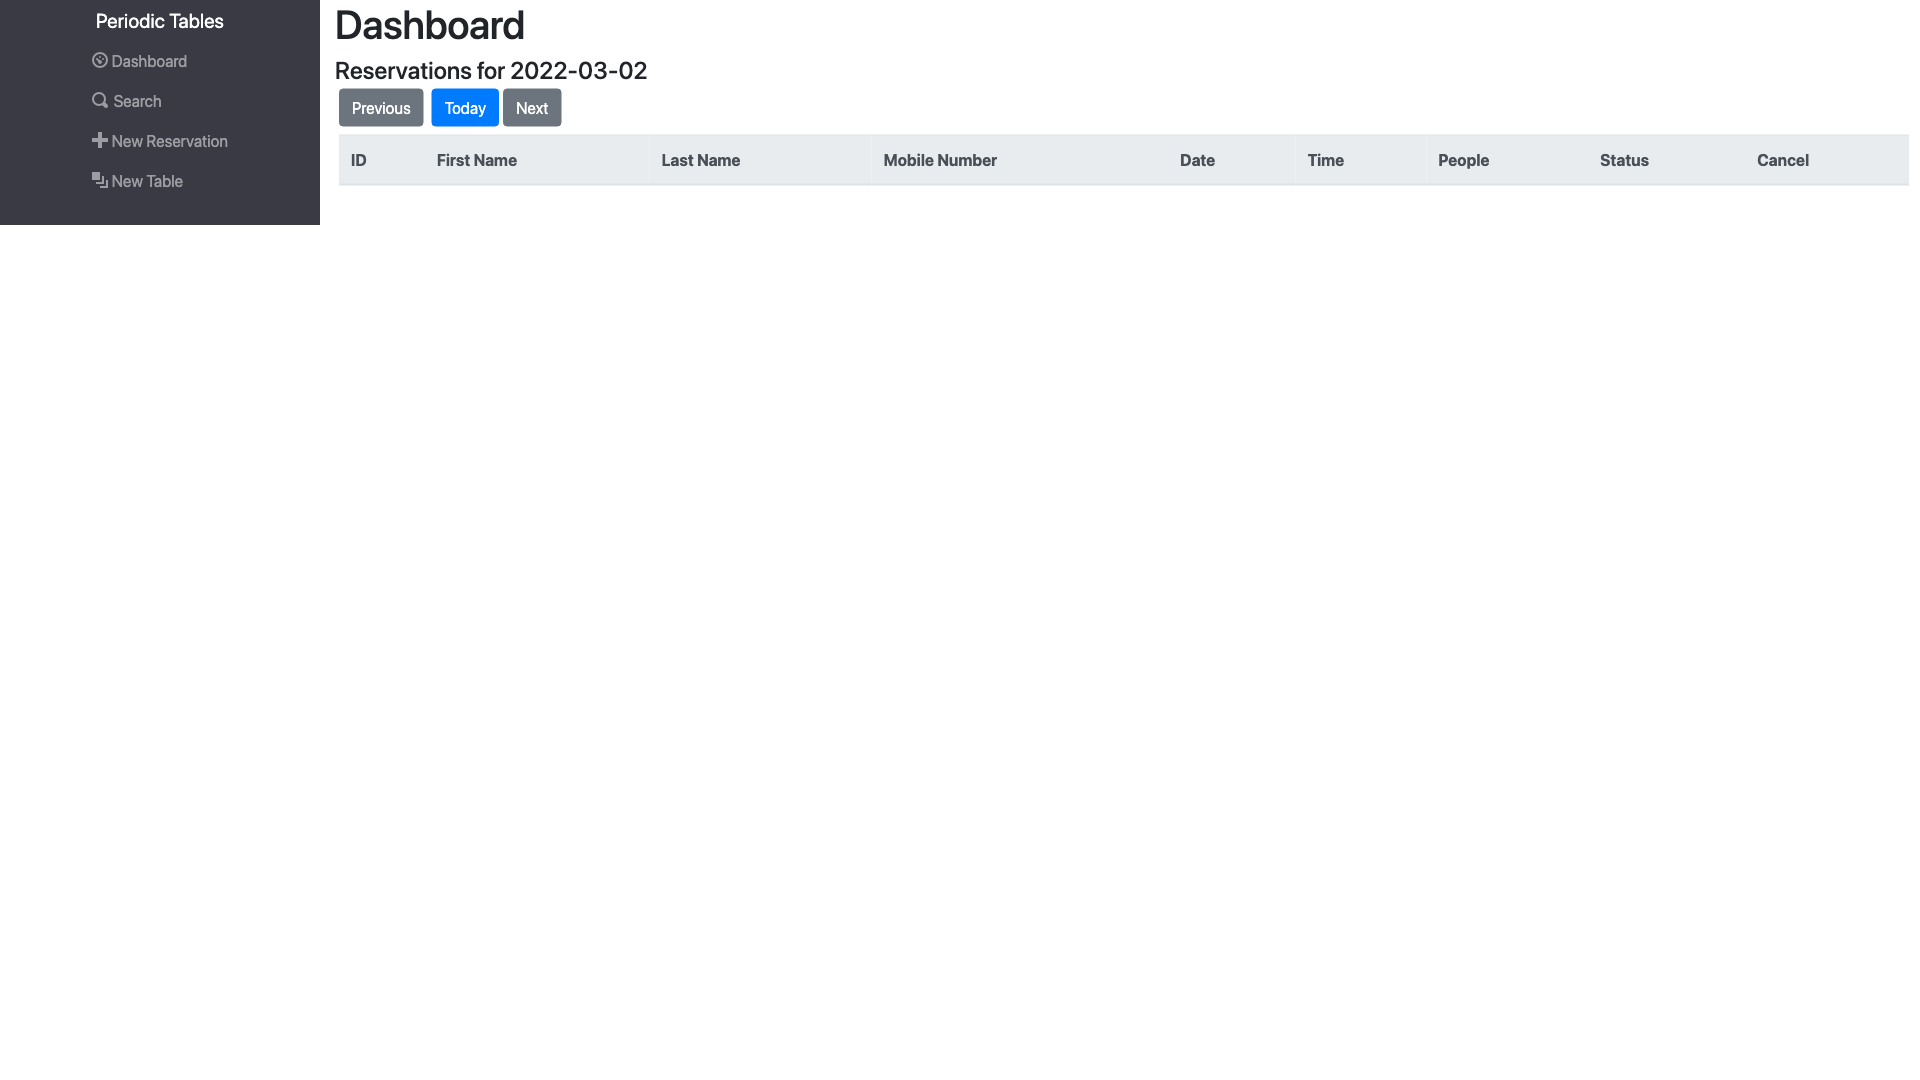
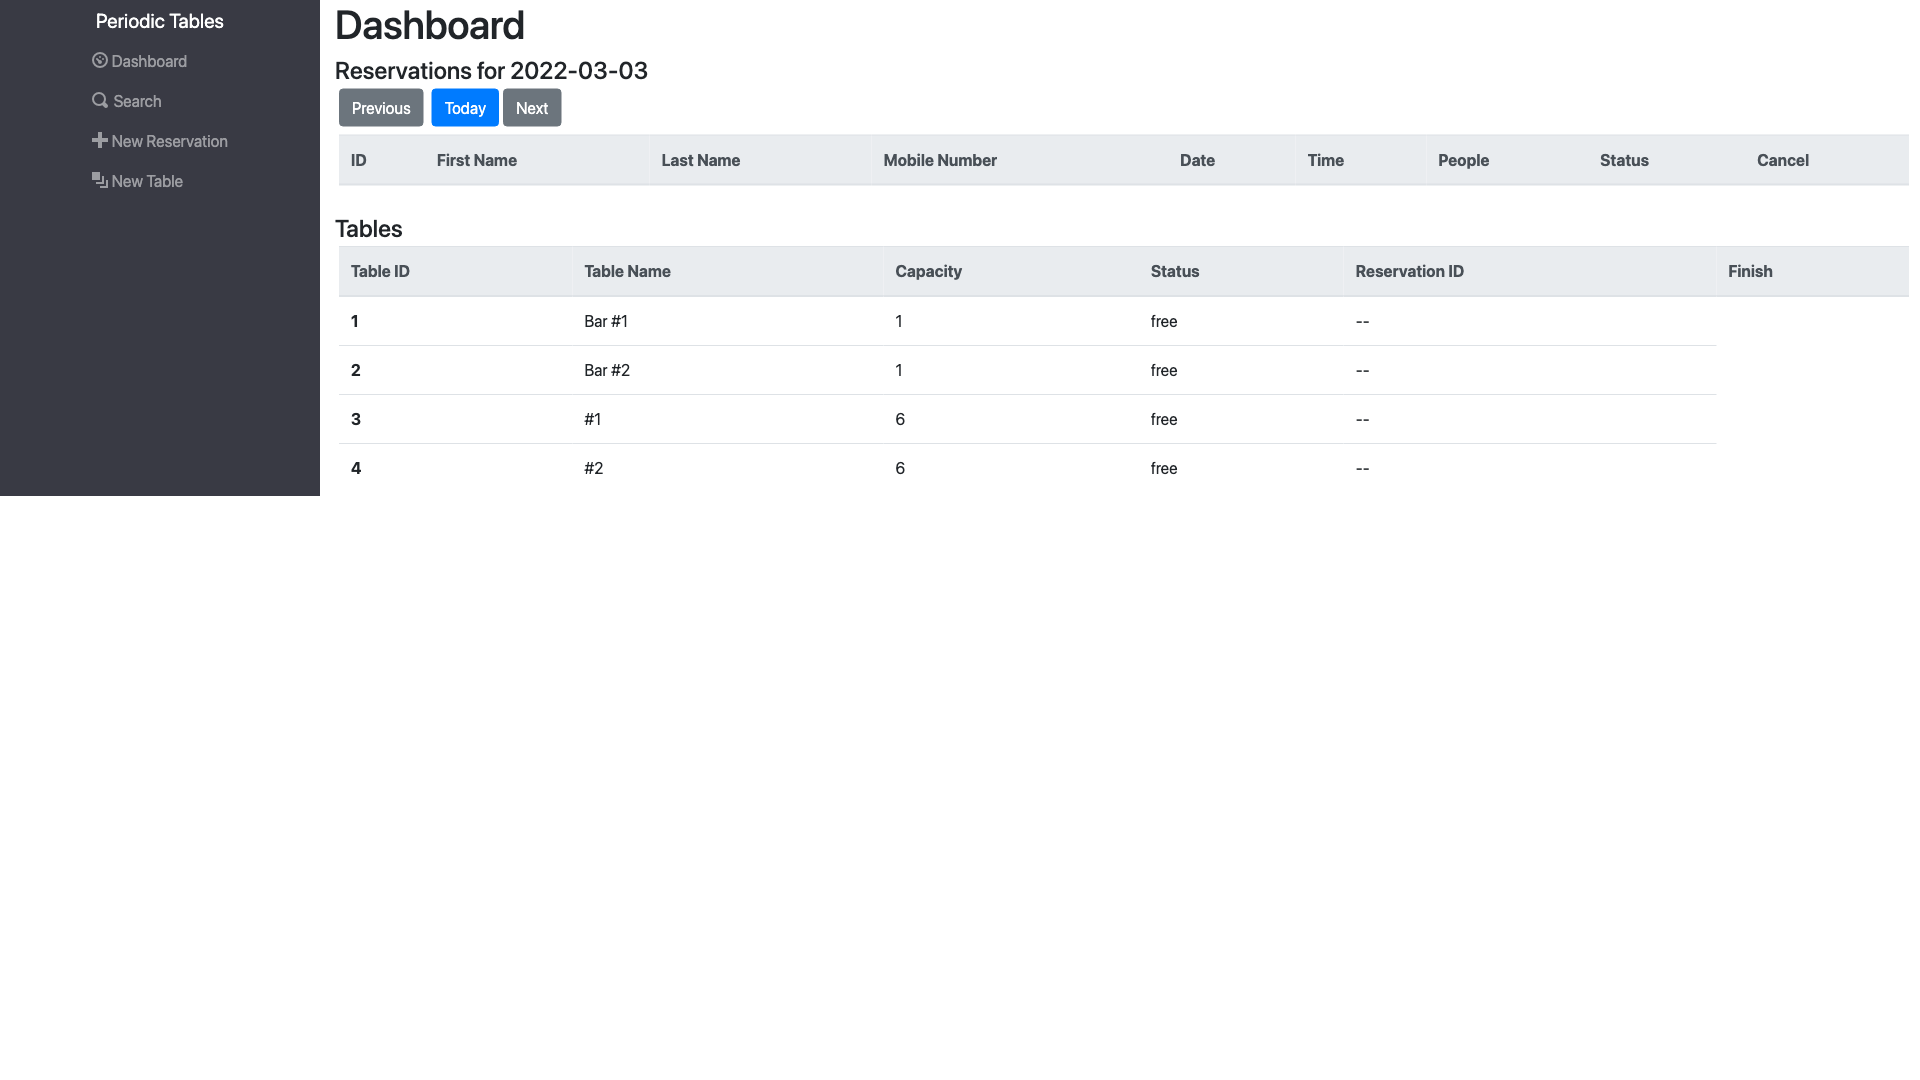
added SeatReservation functionality
added SeatReservation functionality, added API Requests to api.js, updated Routes.js to include editing and seating a reservation

diff --git a/src/reservations/SeatReservation.js b/src/reservations/SeatReservation.js
@@ -1,0 +1,142 @@
+import React, { useState, useEffect } from "react";
+import { useHistory, useParams } from "react-router";
+import { listReservations, seatTable } from "../utils/api";
+import ErrorAlert from "../layout/ErrorAlert";
+
+/**
+ * Page where user will choose a table to seat a reservation
+ */
+export default function SeatReservation({ tables, loadDashboard }) {
+  const history = useHistory();
+
+  const { reservation_id } = useParams();
+
+  const [table_id, setTableId] = useState(0);
+  const [reservations, setReservations] = useState([]);
+  const [reservationsError, setReservationsError] = useState(null);
+  const [errors, setErrors] = useState([]);
+  const [apiError, setApiError] = useState(null);
+
+  /**
+   * On Application Mount make an API call to get all reservations
+   */
+  useEffect(() => {
+    const abortController = new AbortController();
+
+    setReservationsError(null);
+
+    listReservations(null, abortController.signal)
+      .then(setReservations)
+      .catch(setReservationsError);
+
+    return () => abortController.abort();
+  }, []);
+
+  /**
+   * update the table_id upon user input
+   */
+  function handleInputChange({ target }) {
+    setTableId(target.value);
+  }
+
+  /** upon user submit validateSeat() and then makes API call seatTable()
+   * 
+   * @param {*} event 
+   * @returns 
+   */
+  function handleSubmit(event) {
+    event.preventDefault();
+    const abortController = new AbortController();
+
+    if (validateSeat()) {
+        seatTable(reservation_id, table_id, abortController.signal)
+            .then(loadDashboard)
+            .then(() => history.push(`/dashboard`))
+            .catch(setApiError);
+    }
+
+    return () => abortController.abort();
+  }
+
+  /**
+   * validates that a reservation can be seated at a specific table
+   */
+  function validateSeat() {
+    const foundErrors = [];
+
+    const foundTable = tables.find(
+      (table) => table.table_id === Number(table_id)
+    );
+    const foundReservation = reservations.find(
+      (reservation) => reservation.reservation_id === Number(reservation_id)
+    );
+
+    if (!foundTable) {
+      foundErrors.push("Selected table does not exist.");
+    } else if (!foundReservation) {
+      foundErrors.push("This reservation does not exist.");
+    } else {
+      if (foundTable.status === "occupied") {
+        foundErrors.push("The table you selected is currently occupied.");
+      }
+
+      if (foundTable.capacity < foundReservation.people) {
+        foundErrors.push(
+          `The table you selected cannot seat ${foundReservation}.`
+        );
+      }
+    }
+
+    setErrors(foundErrors);
+
+    return foundErrors.length === 0;
+  }
+
+
+  const tableOptionsJSX = () => {
+    return tables.map((table) => 
+      <option key={table.table_id} value={table.table_id}>
+        {table.table_name} - {table.capacity}
+      </option>
+    );
+  };
+
+  const errorsJSX = () => {
+      return errors.map((error, index) => <ErrorAlert key={index} error={error} />);
+  }
+
+  return (
+      <form className="form-select">
+          {errorsJSX()}
+          <ErrorAlert error={apiError}/>
+          <ErrorAlert error={reservationsError}/>
+
+          <label className="form-label" htmlFor="table_id">Choose table:</label>
+          <select
+            className="form-control"
+            name="table_id"
+            id="table_id"
+            value={table_id}
+            onChange={handleInputChange}
+          >
+              <option value={0}>Choose a table</option>
+              {tableOptionsJSX()}
+          </select>
+
+          <button
+            className="btn btn-primary m-1"
+            type="submit"
+            onClick={handleSubmit}
+          >
+              Submit
+          </button>
+          <button
+            className="btn btn-danger m-1"
+            type="button"
+            onClick={history.goBack}
+          >
+              Cancel
+          </button>
+      </form>
+  );
+}

diff --git a/src/dashboard/ReservationRow.js b/src/dashboard/ReservationRow.js
@@ -1,44 +1,70 @@
 import React from "react";
-// import { Link } from "react-router-dom";
+import { Link } from "react-router-dom";
+import { updateReservationStatus } from "../utils/api";
 
 /**
  * a Row representing a row from the reservations data table
  */
 
 export default function ReservationRow({ reservation, loadDashboard }) {
-    if (!reservation || reservation.status === "finished") return null;
+  if (!reservation || reservation.status === "finished") return null;
 
-    // function handleCancel() {
-    //     if (window.confirm("Do you want to cancel this reservation? This cannot be undone.")) {
-            
-    //     }
-    // }
+  // when cancel button clicked sets reservation status to "cancelled"
+  function handleCancel() {
+    if (
+      window.confirm(
+        "Do you want to cancel this reservation? This cannot be undone."
+      )
+    ) {
+      const abortController = new AbortController();
 
-    return (
-        <tr>
-            <th scope="row">{reservation.reservation_id}</th>
-            <td>{reservation.first_name}</td>
-            <td>{reservation.last_name}</td>
-            <td>{reservation.mobile_number}</td>
-            <td>{reservation.reservation_date.substr(0, 10)}</td>
-            <td>{reservation.reservation_time.substr(0, 5)}</td>
-            <td>{reservation.people}</td>
-            <td data-reservation-id-status={reservation.reservation_id}>{reservation.status}</td>
+      updateReservationStatus(
+        reservation.reservation_id,
+        "cancelled",
+        abortController.status
+      ).then(loadDashboard);
 
-            {reservation.status === "booked" && 
-                <>
-                    <td>
-                        <button
-                            className="btn btn-danger"
-                            type="button"
-                            // onClick={handleCancel}
-                            data-reservation-id-cancel={reservation.reservation_id}
-                        >
-                            Cancel
-                        </button>
-                    </td>
-                </>
-            }
-        </tr>
-    )
+      return () => abortController.abort();
+    }
+  }
+
+  return (
+    <tr>
+      <th scope="row">{reservation.reservation_id}</th>
+      <td>{reservation.first_name}</td>
+      <td>{reservation.last_name}</td>
+      <td>{reservation.mobile_number}</td>
+      <td>{reservation.reservation_date.substr(0, 10)}</td>
+      <td>{reservation.reservation_time.substr(0, 5)}</td>
+      <td>{reservation.people}</td>
+      <td data-reservation-id-status={reservation.reservation_id}>
+        {reservation.status}
+      </td>
+
+      {reservation.status === "booked" && (
+        <>
+        <td>
+            <Link to={`/reservations/${reservation.reservation_id}/edit`}>
+                <button className="btn btn-secondary" type="button">Edit</button>
+            </Link>
+        </td>
+          <td>
+            <button
+              className="btn btn-danger"
+              type="button"
+              onClick={handleCancel}
+              data-reservation-id-cancel={reservation.reservation_id}
+            >
+              Cancel
+            </button>
+          </td>
+          <td>
+              <a href={`/reservations/${reservation.reservation_id}/seat`}>
+                  <button className="btn btn-primary" type="button">Seat</button>
+              </a>
+          </td>
+        </>
+      )}
+    </tr>
+  );
 }

diff --git a/src/utils/api.js b/src/utils/api.js
@@ -68,6 +68,11 @@ export async function listReservations(params, signal) {
     .then(formatReservationTime);
 }
 
+// export async function listReservations(signal) {
+//   const url = `${API_BASE_URL}/reservations`;
+
+//   return await fetchJson(url, { headers, signal, method: "GET" }, [])
+// }
 
 /** creates a reservation -> "POST"
  * 
@@ -100,7 +105,27 @@ export async function editReservation(reservation_id, reservation, signal) {
 }
 
 
+/** update a specified reservations status
+ * 
+ * @param {*} reservation_id 
+ * @param {*} status 
+ * @param {*} signal 
+ * @returns 
+ */
+export async function updateReservationStatus(reservation_id, status, signal) {
+  const url = `${API_BASE_URL}/reservations/${reservation_id}/status`;
 
+  const body = JSON.stringify({ data: { status: status }});
+
+  return await fetchJson(url, { headers, signal, method: "PUT", body }, []);
+}
+
+
+/** Lists all tables for the restaurant from the tables table
+ * 
+ * @param {*} signal 
+ * @returns 
+ */
 export async function listTables(signal) {
   const url = `${API_BASE_URL}/tables`
 
@@ -119,4 +144,12 @@ export async function createTable(table, signal) {
   const body = JSON.stringify({ data: table });
 
   return await fetchJson(url, { headers, signal, method: "POST", body }, []);
+}
+
+export async function seatTable(reservation_id, table_id, signal) {
+  const url = `${API_BASE_URL}/tables/${table_id}/seat`
+
+  const body = JSON.stringify({ data: {reservation_id: reservation_id } });
+
+  return await fetchJson(url, { headers, signal, method: "PUT", body }, []);
 }

diff --git a/src/layout/Routes.js b/src/layout/Routes.js
@@ -5,6 +5,7 @@ import Dashboard from "../dashboard/Dashboard";
 import NewReservation from "../reservations/NewReservation";
 import NewTable from "../tables/NewTable";
 import NotFound from "./NotFound";
+import SeatReservation from "../reservations/SeatReservation";
 import { listReservations, listTables } from "../utils/api";
 import useQuery from "../utils/useQuery";
 import { today } from "../utils/date-time";
@@ -72,6 +73,10 @@ function Routes() {
 
       <Route path="/reservations/:reservation_id/edit">
         <NewReservation loadDashboard={loadDashboard} edit={true}/>
+      </Route>
+
+      <Route path="/reservations/:reservation_id/seat">
+        <SeatReservation tables={tables} loadDashboard={loadDashboard}/>
       </Route>
 
       <Route path="/tables/new">
